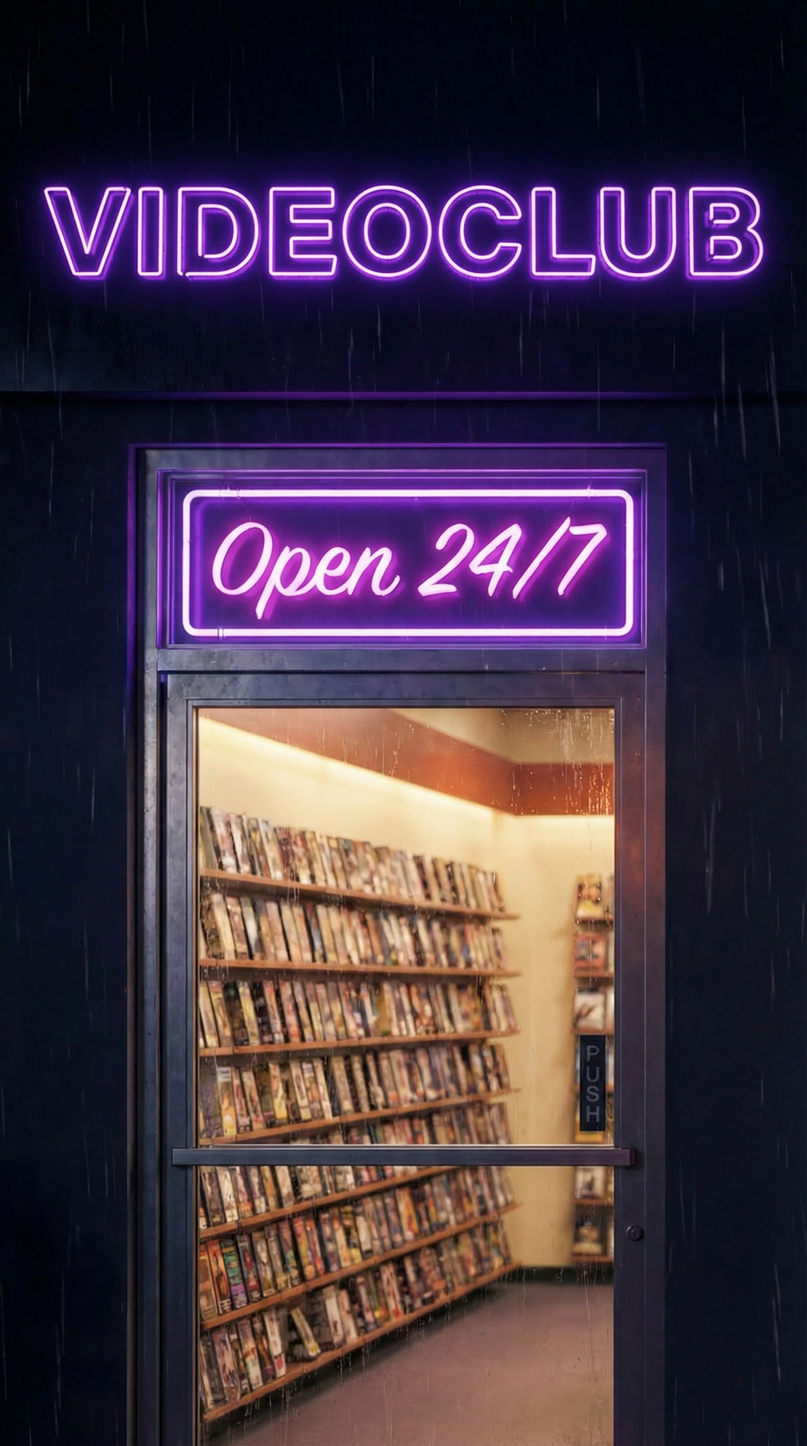
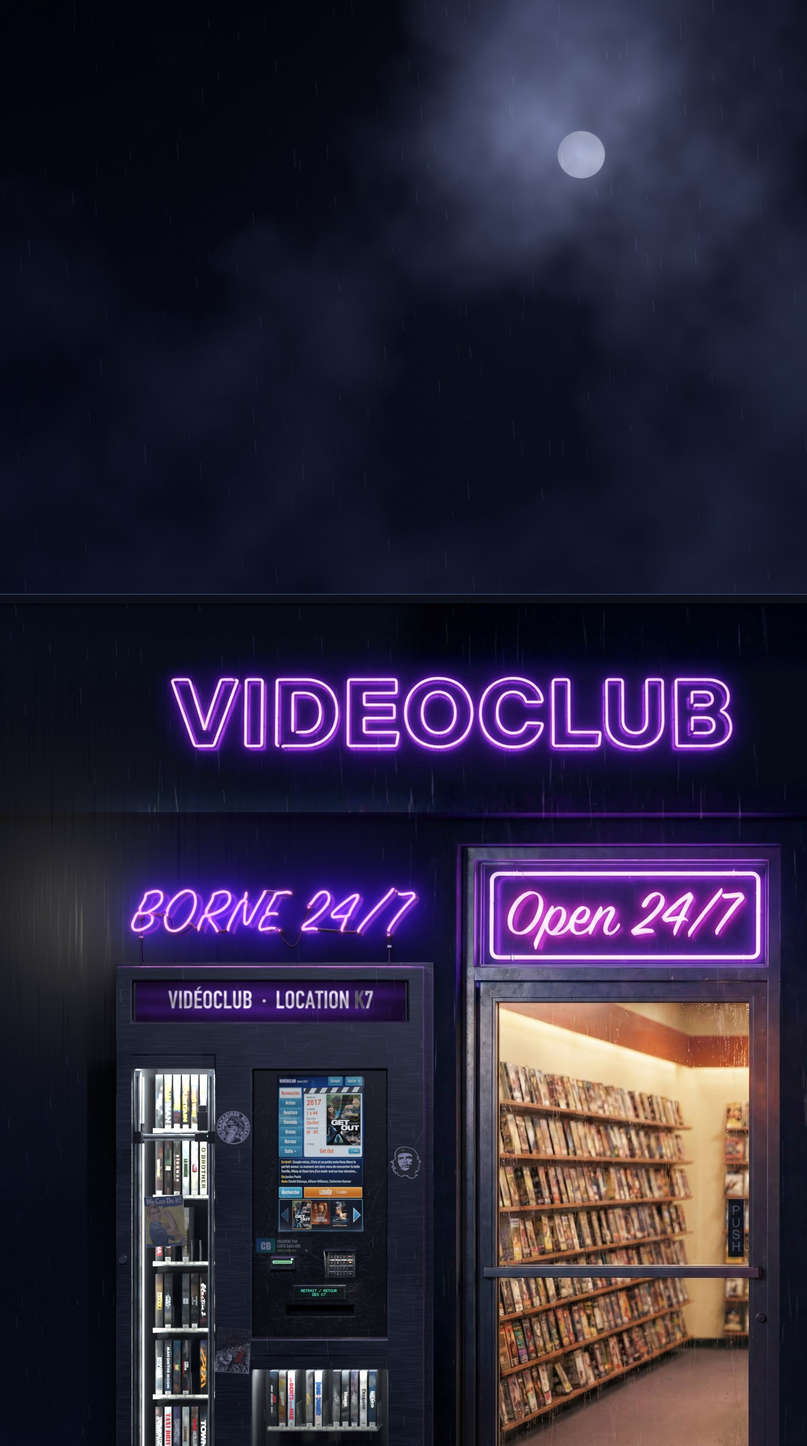
feat(devanture): images mobiles avec la borne, vue rapprochée et mise en page
La fabrique écrit maintenant les images du site : la devanture mobile avec la
borne (mêmes noms, 1536 × 2752), une vue rapprochée de l'écran de la borne
pour le zoom (1560 × 2340, l'écran y fait 780 px de large) et un fichier de
mise en page, src/data/storefront-mobile.json : où sont la borne, son écran,
la porte et la plaque PUSH dans l'image, en fractions, projetés par la caméra
de la scène Blender.

Claude-Session: https://claude.ai/code/session_01MRKuaKrzxUuAepE6WdT7xu

diff --git a/tools/devanture-borne/borne.py b/tools/devanture-borne/borne.py
@@ -1,6 +1,6 @@
 """Devanture mobile avec la borne : la borne sous Blender, calée sur la vue mobile reculée.
 
-blender -b --factory-startup -P borne.py -- <echantillons> [<sortie.png> [borne|mur]]
+blender -b --factory-startup -P borne.py -- <echantillons> [<sortie.png> [borne|mur|zoom]]
 Repère : X vers la droite (0 = centre de la porte), Y vers le mur (mur en Y = 0), Z vers le haut
 (0 = sol). 1 unité = 1 m. Échelle et position tirées de travail/repere.json (fond.py).
 """
@@ -17,7 +17,8 @@ ICI = Path(__file__).resolve().parent
 D = ICI / 'travail'                 # tout l'intermédiaire (ignoré par git)
 SAMPLES = int(args[0]) if len(args) > 0 else 64
 OUT = args[1] if len(args) > 1 else str(D / 'borne.png')
-# 'borne' : la borne sur fond transparent ; 'mur' : la lumière que le mur renvoie (voir « passe mur » plus bas).
+# 'borne' : la borne sur fond transparent (et la mise en page lue par le site) ; 'mur' : la lumière que le mur renvoie
+# (voir « passe mur » plus bas) ; 'zoom' : la vue rapprochée de l'écran, pour le zoom du site.
 PASSE = args[2] if len(args) > 2 else 'borne'
 G = json.loads((ICI / 'geometrie.json').read_text())
 R = json.loads((D / 'repere.json').read_text())
@@ -1026,6 +1027,74 @@ def pose_reverbere():
     return ob
 
 
+# ----- Ce que le site lit : la mise en page de l'image, et la vue rapprochée de l'écran -----
+# Le site pose ses zones d'appui et son zoom sur ces positions, en fractions de l'image (0 à 1, origine en haut à
+# gauche). Elles sont projetées par la caméra de la scène, jamais recopiées à la main.
+from bpy_extras.object_utils import world_to_camera_view as vers_image  # noqa: E402
+
+SITE = G.get('site', {})
+ZOOM = SITE.get('zoom', {'ecran_px': 780, 'largeur_en_ecrans': 2, 'hauteur_en_ecrans': 3})
+ZOOM_W, ZOOM_H = ZOOM['ecran_px'] * ZOOM['largeur_en_ecrans'], ZOOM['ecran_px'] * ZOOM['hauteur_en_ecrans']
+
+
+def cadre(points):
+    """Rectangle qui englobe, dans l'image, des points de la scène."""
+    bpy.context.view_layer.update()
+    vus = [vers_image(scene, cam, Vector(q)) for q in points]
+    xs_, ys_ = [v.x for v in vus], [1 - v.y for v in vus]
+    return {'x0': min(xs_), 'y0': min(ys_), 'x1': max(xs_), 'y1': max(ys_)}
+
+
+def zone_zoom(ecran):
+    """La vue rapprochée : centrée sur l'écran, large de deux écrans et haute de trois largeurs d'écran. Rend la taille
+    de l'image entière à cette échelle (l'écran y fait ecran_px de large) et le coin haut-gauche de la vue, en pixels."""
+    s_ = ZOOM['ecran_px'] / ((ecran['x1'] - ecran['x0']) * W)
+    wz, hz = round(W * s_), round(H * s_)
+    bx = round((ecran['x0'] + ecran['x1']) / 2 * wz - ZOOM_W / 2)
+    by = round((ecran['y0'] + ecran['y1']) / 2 * hz - ZOOM_H / 2)
+    return wz, hz, bx, by
+
+
+def mise_en_page():
+    # La borne : le corps entier, de sa façade (en saillie) au plan du mur ; son pied est sous le bord de l'image.
+    borne_ = cadre([(KX + c_ * KW / 2, y_, z_) for c_ in (-1, 1) for y_ in (FRONT, 0.0) for z_ in (0.0, KH)])
+    borne_ = {k_: min(1.0, max(0.0, v_)) for k_, v_ in borne_.items()}
+    ex0, ex1, ez0, ez1 = F['ecran']
+    ecran_ = cadre([(L(x_), FRONT + 0.019, z_) for x_ in (ex0, ex1) for z_ in (ez0, ez1)])
+    # La porte est dans la photo : ses bords viennent du calage de la photo (fond.py), son haut du cadre relevé.
+    porte_ = {'x0': R['door_left_x'] / W, 'y0': MUR['porte_px']['haut'] / H, 'x1': R['door_right_x'] / W, 'y1': 1.0}
+    kp = PPM / G['photo']['px_par_m']
+    push_x, push_y = G['photo']['plaque_push_px']
+    wz, hz, bx, by = zone_zoom(ecran_)
+    return {
+        'image': {'w': W, 'h': H}, 'borne': borne_, 'ecran': ecran_, 'porte': porte_,
+        'push': {'x': (R['photo_x0'] + push_x * kp) / W, 'y': (R['photo_y0'] + push_y * kp) / H},
+        'groupe': {'cx': (borne_['x0'] + porte_['x1']) / 2, 'cy': SITE.get('groupe_cy', 0.72)},
+        'zoom': {'x0': bx / wz, 'y0': by / hz, 'x1': (bx + ZOOM_W) / wz, 'y1': (by + ZOOM_H) / hz, 'w': ZOOM_W, 'h': ZOOM_H},
+    }
+
+
+MISE = mise_en_page()
+if PASSE == 'borne':
+    (D / 'mise-en-page.json').write_text(json.dumps(
+        {k_: {c_: (round(v_, 6) if isinstance(v_, float) else v_) for c_, v_ in r_.items()} for k_, r_ in MISE.items()}, indent=2) + '\n')
+    print('MISE EN PAGE borne', [round(MISE['borne'][c_] * (W if c_[0] == 'x' else H)) for c_ in ('x0', 'y0', 'x1', 'y1')],
+          '| écran', [round(MISE['ecran'][c_] * (W if c_[0] == 'x' else H)) for c_ in ('x0', 'y0', 'x1', 'y1')],
+          '| porte', [round(MISE['porte'][c_] * (W if c_[0] == 'x' else H)) for c_ in ('x0', 'y0', 'x1', 'y1')],
+          '| push', round(MISE['push']['x'] * W), round(MISE['push']['y'] * H),
+          '| zoom', [round(MISE['zoom'][c_] * (W if c_[0] == 'x' else H)) for c_ in ('x0', 'y0', 'x1', 'y1')])
+
+if PASSE == 'zoom':
+    # Même caméra, même scène : seule la zone de la vue rapprochée est rendue, à l'échelle où l'écran fait ecran_px
+    # de large. Elle tient tout entière dans la borne (ni mur ni photo) : sortie opaque, sans halo ni pluie.
+    wz_, hz_, bx_, by_ = zone_zoom(MISE['ecran'])
+    scene.render.resolution_x, scene.render.resolution_y = wz_, hz_
+    scene.render.use_crop_to_border = True
+    scene.render.border_min_x, scene.render.border_max_x = (bx_ + 0.5) / wz_, (bx_ + ZOOM_W + 0.5) / wz_
+    scene.render.border_min_y, scene.render.border_max_y = 1 - (by_ + ZOOM_H - 0.5) / hz_, 1 - (by_ - 0.5) / hz_
+    scene.render.film_transparent = False
+    scene.render.image_settings.color_mode = 'RGB'
+
 if PASSE == 'mur':
     murs_reels()
     for ob in scene.objects:
@@ -1051,4 +1120,8 @@ if PASSE == 'mur':
     lum = buf.reshape(exr.size[1], exr.size[0], 4)[::-1, :, :3]
     np.save(str(D / 'mur-passe.npy'), lum[1100:2300, 0:900].copy())
     print('PASSE MUR', lum.shape, 'max', round(float(lum.max()), 3), '→ mur-passe.npy (lignes 1100 à 2300, colonnes 0 à 900)')
+if PASSE == 'zoom':
+    taille = tuple(bpy.data.images.load(OUT).size)
+    assert taille == (ZOOM_W, ZOOM_H), f'vue rapprochée : {taille} au lieu de {(ZOOM_W, ZOOM_H)}'
+    print('ZOOM', taille, 'image entière à cette échelle', (wz_, hz_), 'coin de la vue', (bx_, by_))
 print('RENDU', OUT, 'centre borne X =', round(KX, 3), 'objectif', round(cam_data.lens, 2), 'mm', 'décalage', round(cam_data.shift_x, 4), round(cam_data.shift_y, 4))

diff --git a/tools/devanture-borne/sorties.py b/tools/devanture-borne/sorties.py
@@ -1,0 +1,29 @@
+"""Encode les sorties de la fabrique pour le site : la devanture mobile (WebP et JPEG), la vue rapprochée de l'écran de
+la borne (WebP) et la mise en page (où sont la borne, son écran et la porte dans l'image).
+
+Usage : python3 sorties.py   (après compo.py et la passe « zoom » de borne.py)
+"""
+import json
+from pathlib import Path
+
+from PIL import Image
+
+ICI = Path(__file__).resolve().parent
+D = ICI / 'travail'
+RACINE = ICI.parent.parent
+PUBLIC, DONNEES = RACINE / 'public', RACINE / 'src' / 'data'
+
+mise = json.loads((D / 'mise-en-page.json').read_text())
+compo = Image.open(D / 'compo.png').convert('RGB')
+zoom = Image.open(D / 'zoom.png').convert('RGB')
+assert compo.size == (mise['image']['w'], mise['image']['h']), compo.size
+assert zoom.size == (mise['zoom']['w'], mise['zoom']['h']), zoom.size
+
+compo.save(PUBLIC / 'storefront-mobile.webp', 'WEBP', quality=84, method=6)
+compo.save(PUBLIC / 'storefront-mobile.jpeg', 'JPEG', quality=88, optimize=True, progressive=True)
+zoom.save(PUBLIC / 'storefront-borne-zoom.webp', 'WEBP', quality=82, method=6)
+(DONNEES / 'storefront-mobile.json').write_text(json.dumps(mise, indent=2) + '\n')
+
+for nom in ('storefront-mobile.webp', 'storefront-mobile.jpeg', 'storefront-borne-zoom.webp'):
+    print(f'{nom:28} {(PUBLIC / nom).stat().st_size / 1024:7.0f} Ko')
+print('src/data/storefront-mobile.json')
